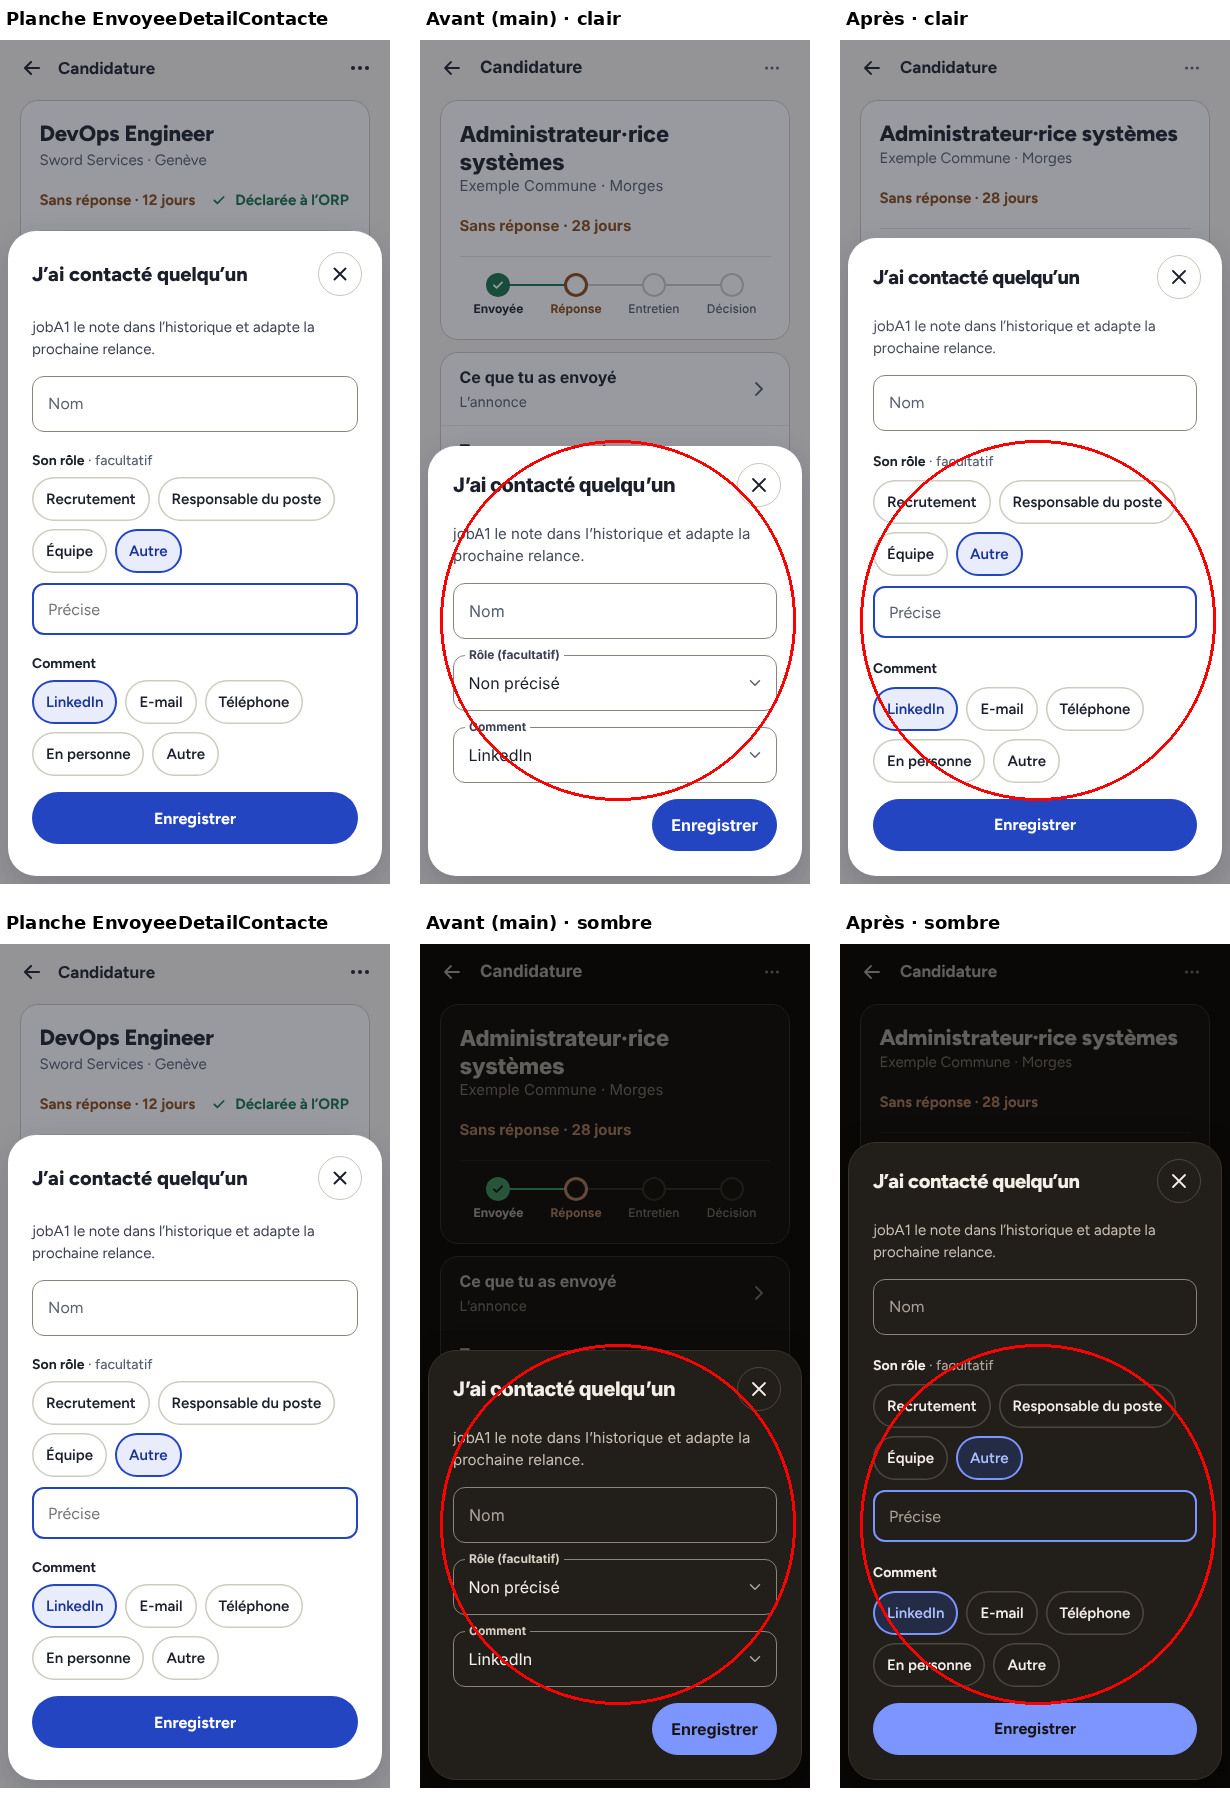
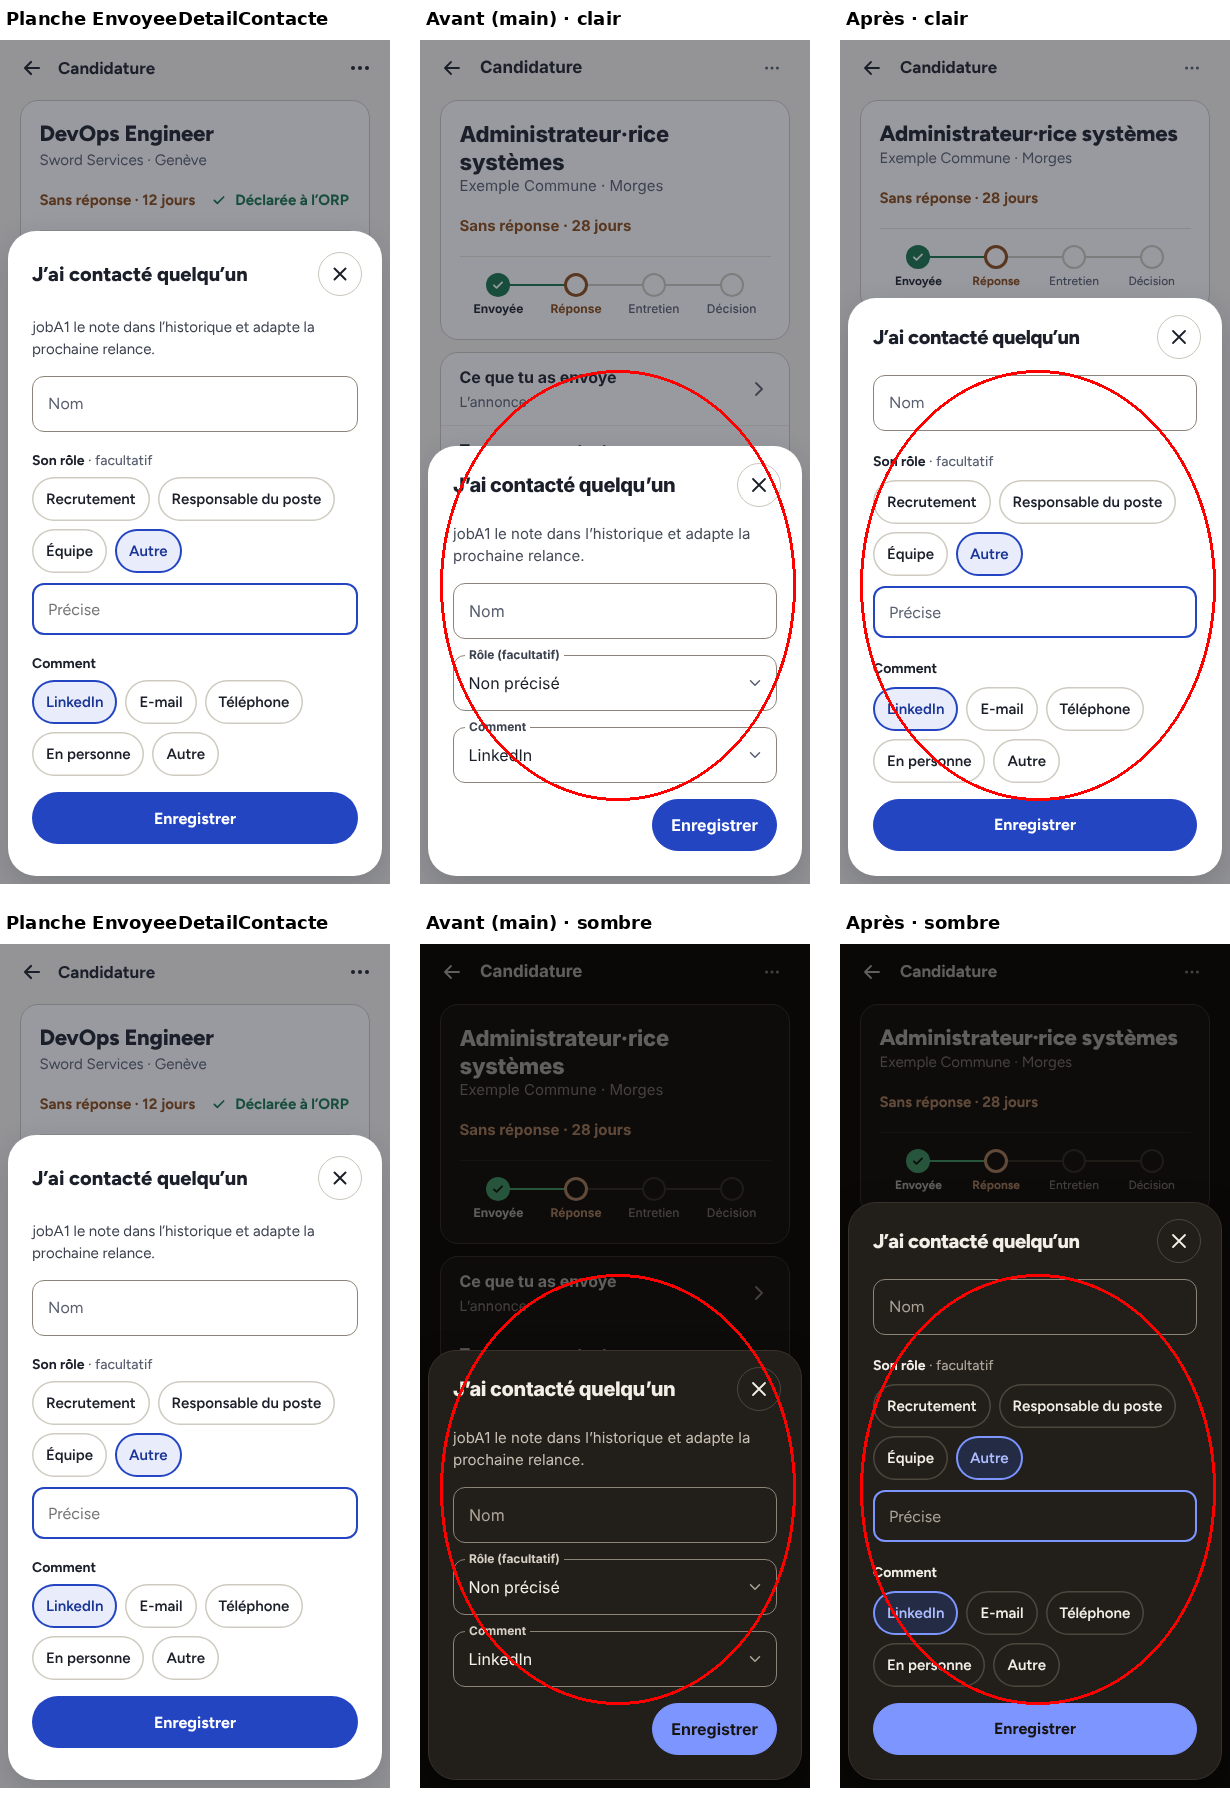
« J'ai contacté quelqu'un » : plus de phrase sous le titre (§72g) [maj-captures]
Claude-Session: https://claude.ai/code/session_014TQZXJPG4WPG5eBiPMs5KK

diff --git a/frontend/src/components/ContactQuickForm.vue b/frontend/src/components/ContactQuickForm.vue
@@ -9,8 +9,8 @@ import FormField from "./FormField.vue";
 
 // « J'ai contacté quelqu'un » (prompt du 10 novembre au soir, PR 28 ; maquettes CandidaturesOrdinateurB état `ct` et
 // EnvoyeeDetailContacte) : Nom, Rôle (facultatif), Comment. Sur ordinateur, la carte dépliée sous l'historique, avec
-// « Annuler » et « Enregistrer » à contour ; sur téléphone (`sheet`), dans la fenêtre du bas, la phrase d'abord et
-// « Enregistrer » plein. Le contact est daté d'aujourd'hui ; il entre dans l'historique et la prochaine relance est
+// « Annuler » et « Enregistrer » à contour ; sur téléphone (`sheet`), dans la fenêtre du bas et
+// « Enregistrer » plein, sans phrase sous le titre (§72g). Le contact est daté d'aujourd'hui ; il entre dans l'historique et la prochaine relance est
 // proposée 7 jours après. Le rôle et le moyen restent des choix (ceux de docs/31), pour le journal et les rappels.
 const props = defineProps<{ applicationId: number; sheet?: boolean }>();
 const emit = defineEmits<{ saved: []; cancel: [] }>();
@@ -107,12 +107,6 @@ async function save(): Promise<void> {
     data-test="contact-quick"
     @submit.prevent="save"
   >
-    <p
-      v-if="sheet"
-      class="contact-quick-lead"
-    >
-      jobA1 le note dans l’historique et adapte la prochaine relance.
-    </p>
     <div class="contact-quick-who">
       <FormField
         v-slot="{ id, describedby, invalid }"
@@ -262,7 +256,6 @@ async function save(): Promise<void> {
 .contact-quick-save[aria-disabled="true"] { opacity: 0.6; cursor: default; }
 .contact-quick.contact-quick-sheet { margin: 0; padding: 0; border: 0; border-radius: 0; background: none; }
 .contact-quick-sheet .contact-quick-who { grid-template-columns: minmax(0, 1fr); gap: var(--space-4); }
-.contact-quick-lead { margin: 0; font-size: calc(var(--font-small) + 1px); line-height: var(--cq-lead-lh, 22px); color: var(--text-tertiary); }
 .contact-quick-sheet .contact-quick-actions { display: grid; justify-content: stretch; }
 .contact-quick-sheet .contact-quick-actions button { width: 100%; height: var(--cq-save-h); min-height: var(--cq-save-h); justify-content: center; font-size: var(--font-body); }
 </style>

diff --git a/frontend/src/components/SentDetail.test.ts b/frontend/src/components/SentDetail.test.ts
@@ -269,7 +269,8 @@ describe("Le détail d’Envoyées sur téléphone (§8.3)", () => {
     await open.trigger("click");
     const sheet = wrapper.find("[data-test=contacted-sheet]");
     expect(sheet.find(".sheet-title").text()).toBe("J’ai contacté quelqu’un");
-    expect(sheet.find(".contact-quick-lead").text()).toBe("jobA1 le note dans l’historique et adapte la prochaine relance.");
+    // Plus de phrase sous le titre (Kevin, 18.11, §72g).
+    expect(sheet.find(".contact-quick-lead").exists()).toBe(false);
     expect(sheet.findAll("label").map((l) => l.text())).toEqual(["Nom"]);
     expect(sheet.findAll("[role=radiogroup]").map((g) => g.findAll("[role=radio]").length)).toEqual([4, 5]);
     expect(sheet.findAll(".contact-quick-actions button").map((b) => b.text())).toEqual(["Enregistrer"]);

diff --git a/docs/decisions/2026-11-18-1438-contact-pastilles.md b/docs/decisions/2026-11-18-1438-contact-pastilles.md
@@ -5,3 +5,4 @@
 - « Autre » ouvre un champ « Précise ». Son texte est gardé dans la note du contact (« Rôle : … », « Moyen : … »).
 - « En personne » est un nouveau moyen de contact (`in_person`). La colonne n'a pas de contrainte : aucune migration n'est nécessaire.
 - Cette décision remplace le point 2 du 18.11 à 10 h 48 (listes de choix de l'app, avec « Autre » et un champ libre).
+- 16 h 20 : « Ancien de ton école » est retiré des choix, validé par Kevin ; ce cas passe par « Autre ». La phrase sous le titre de la fenêtre (« jobA1 le note dans l'historique… ») est retirée (§72g).
